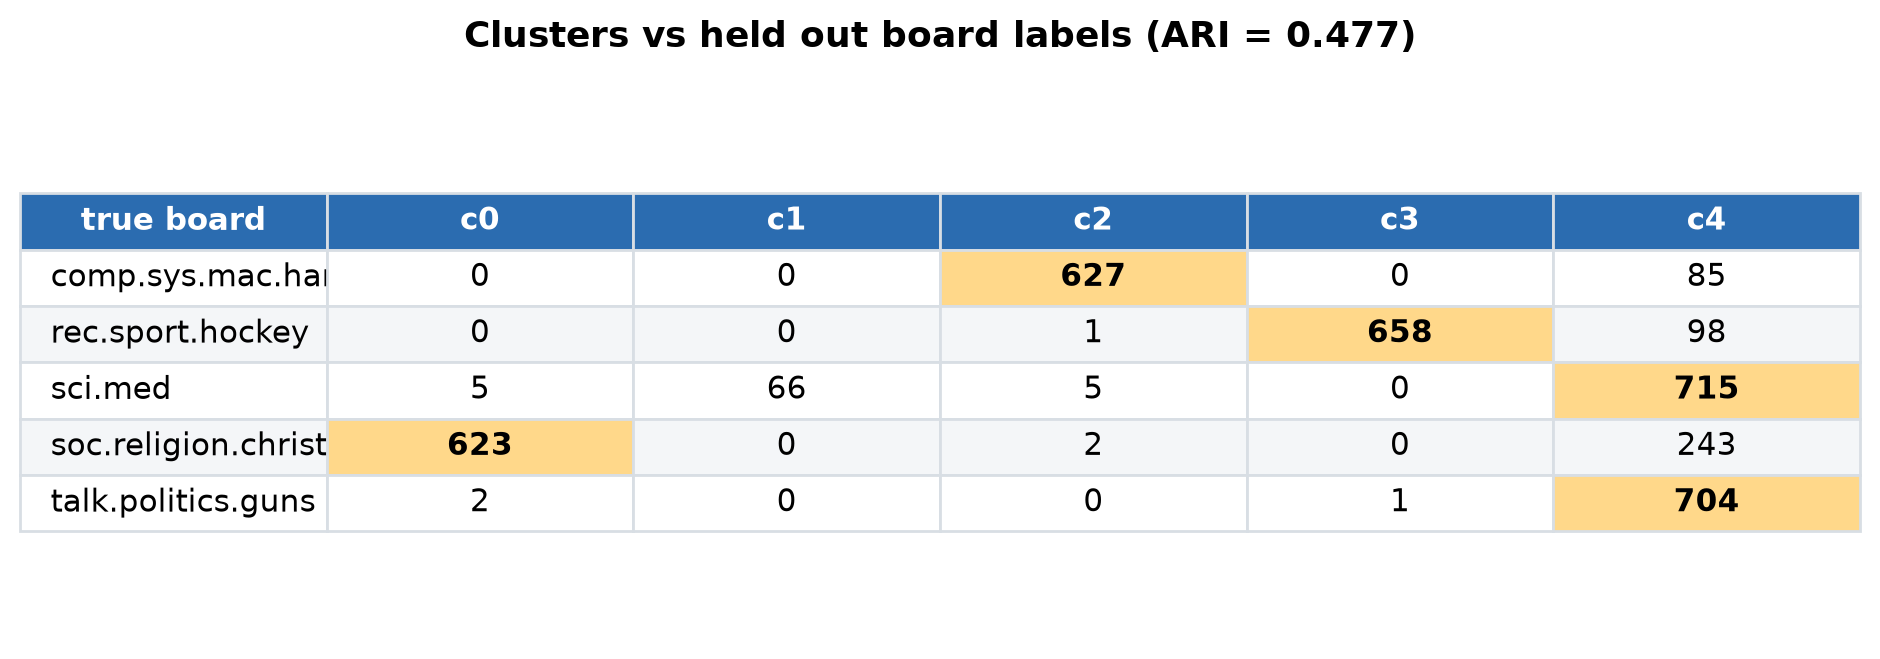
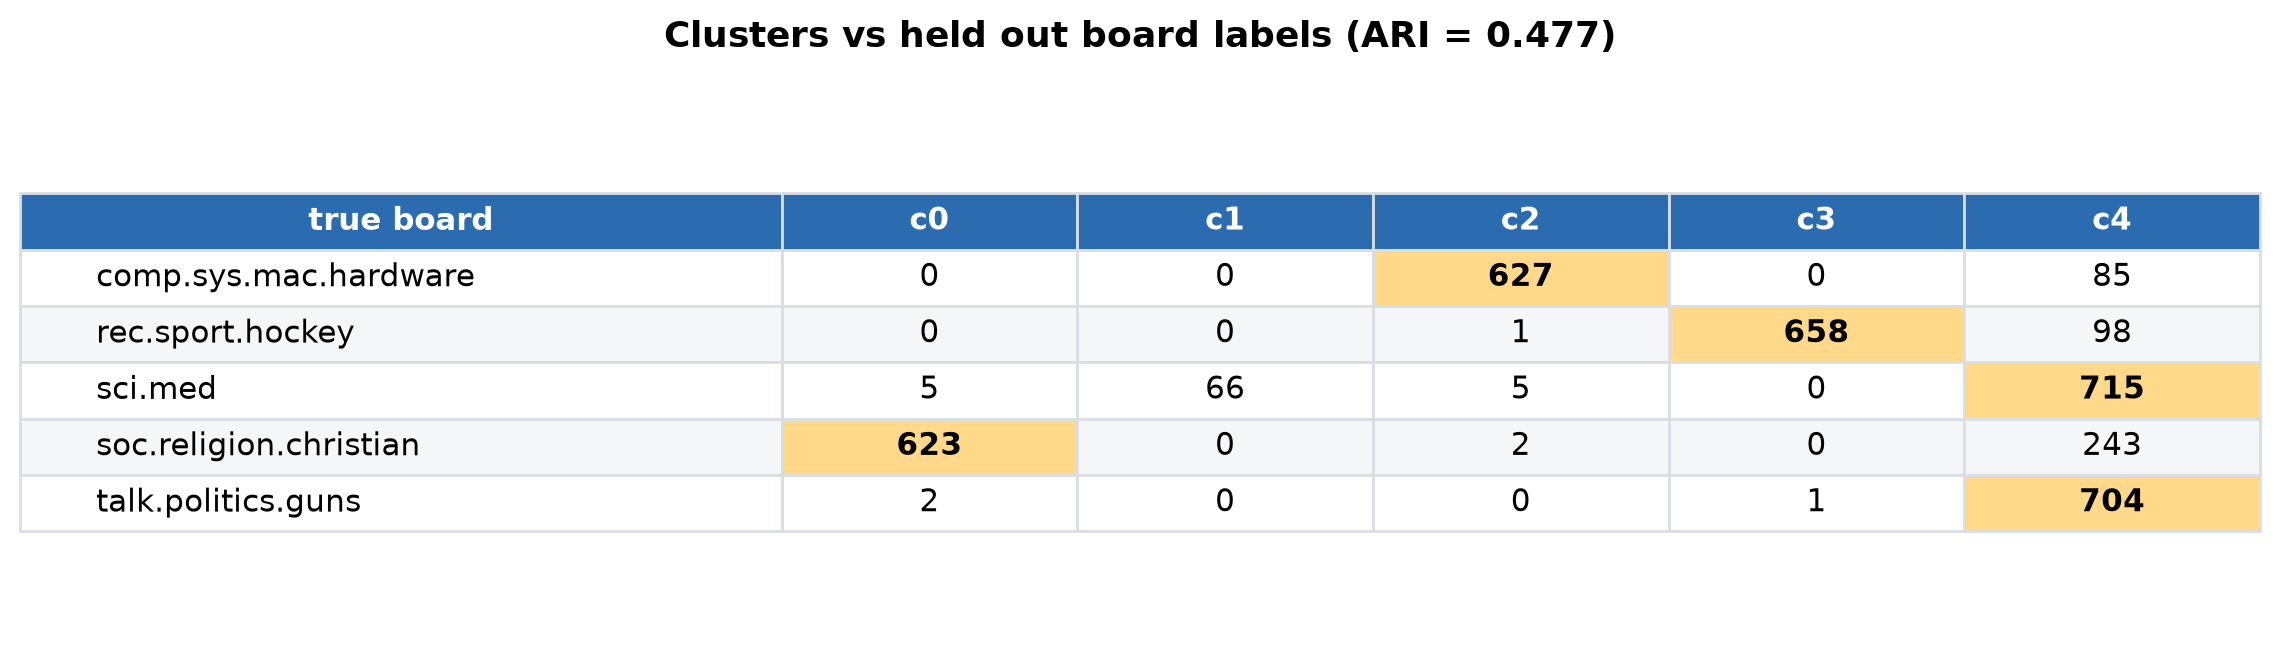
Widen contingency table image

diff --git a/make_tables.py b/make_tables.py
@@ -23,15 +23,14 @@ inr = ["3750.8","3734.1","3708.5","3694.6","3684.3","3675.2","3669.3","3663.6","
 table_png(["k","silhouette (cosine)","inertia"],
           [[str(k), s, i] for k, s, i in zip(ks, sil, inr)],
           "table1_k_selection.png", "Choosing k: silhouette and inertia across k = 2 to 10")
-for (r,) in []: pass
 
 rows = [["comp.sys.mac.hardware","0","0","627","0","85"],
         ["rec.sport.hockey","0","0","1","658","98"],
         ["sci.med","5","66","5","0","715"],
         ["soc.religion.christian","623","0","2","0","243"],
         ["talk.politics.guns","2","0","0","1","704"]]
-fig, ax = plt.subplots(figsize=(9.5, 3.4)); ax.axis("off")
-t = ax.table(cellText=rows, colLabels=["true board","c0","c1","c2","c3","c4"], cellLoc="center", loc="center")
+fig, ax = plt.subplots(figsize=(11.5, 3.4)); ax.axis("off")
+t = ax.table(cellText=rows, colLabels=["true board","c0","c1","c2","c3","c4"], cellLoc="center", loc="center", colWidths=[0.34,0.132,0.132,0.132,0.132,0.132])
 t.auto_set_font_size(False); t.set_fontsize(11); t.scale(1, 1.6)
 big = {(1,3),(2,4),(3,5),(4,1),(5,5)}
 for (r,c), cell in t.get_celld().items():
